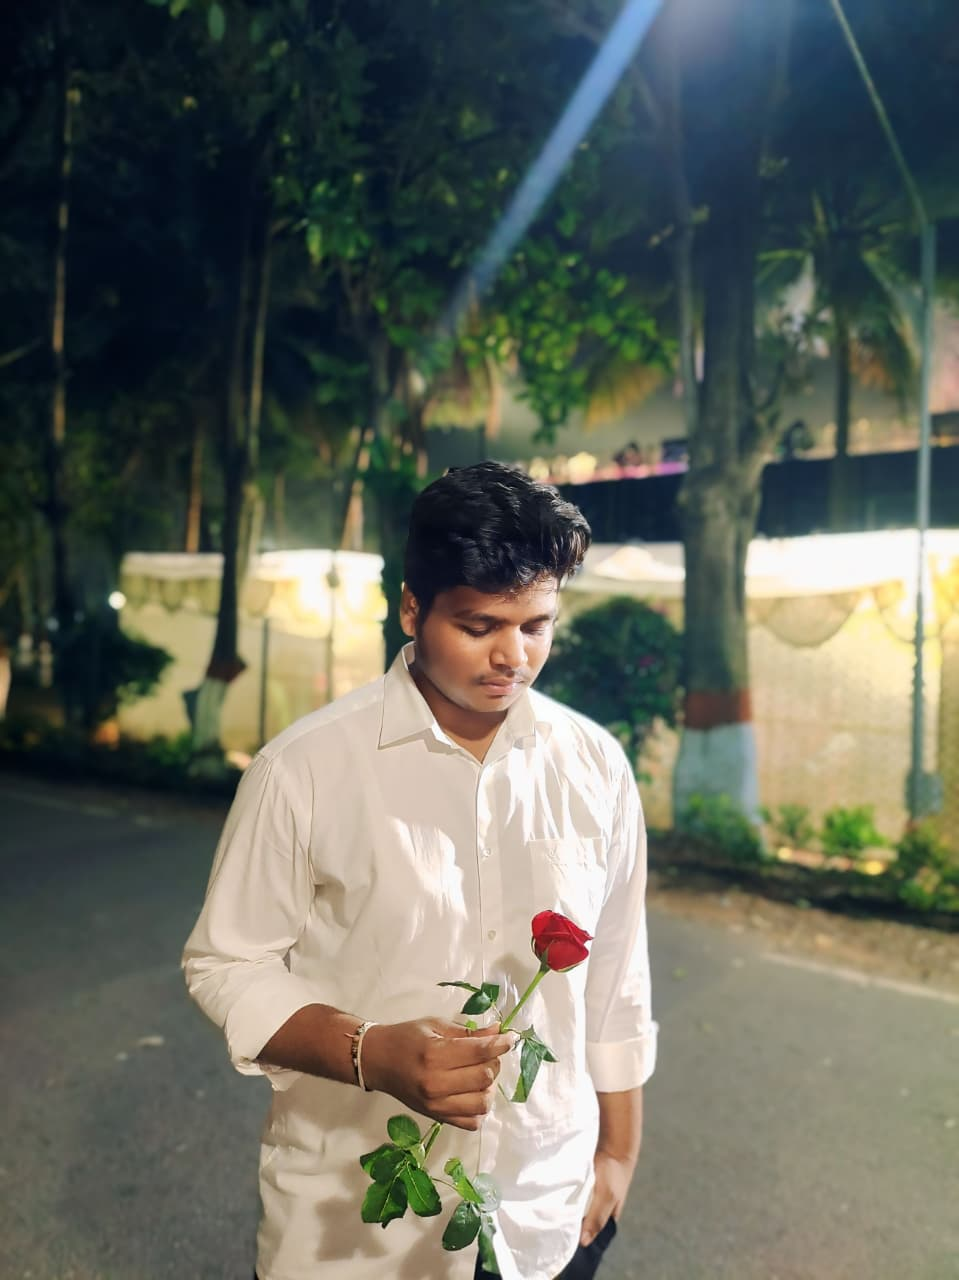
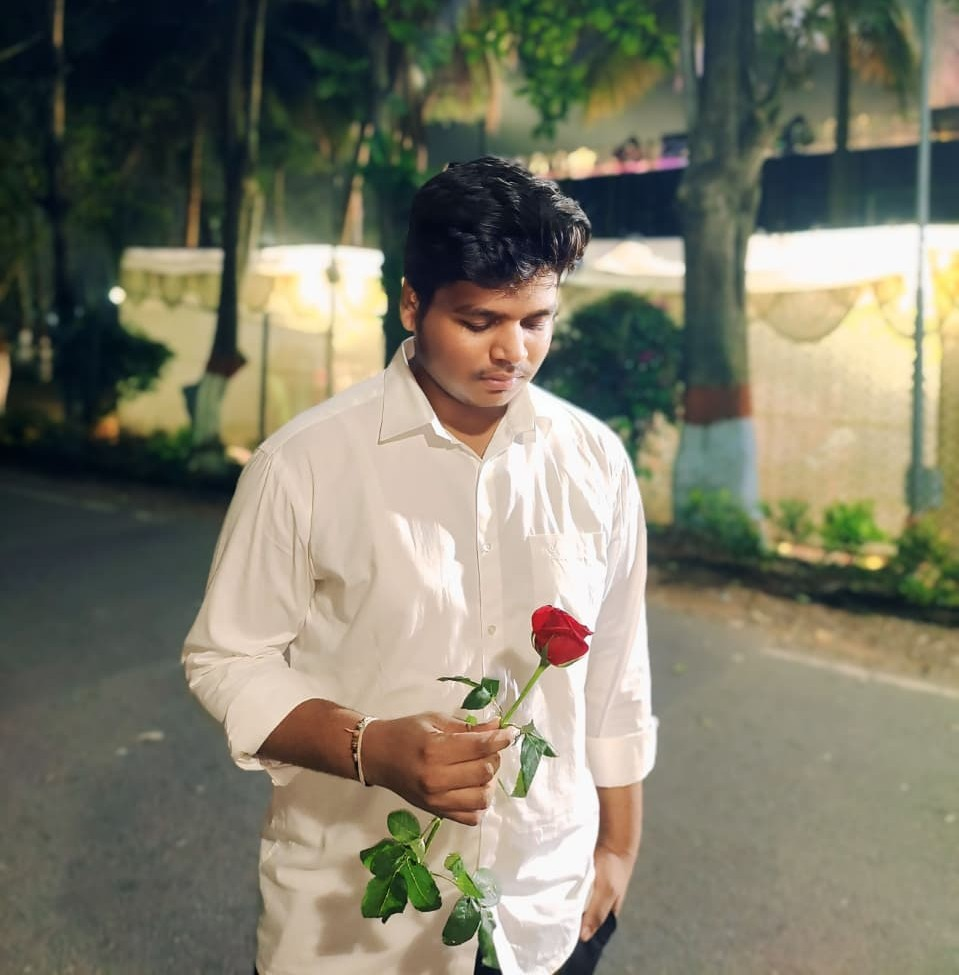
Update developer 2 image zoom and add developer 3 image

diff --git a/templates/developers.html b/templates/developers.html
@@ -24,9 +24,9 @@
 
     <div class="row justify-content-center">
         <!-- Developer 1 -->
-        <div class="col-md-5 mb-4">
+        <div class="col-md-4 mb-4">
             <div class="card developer-card h-100 shadow">
-                <div class="developer-image-container">
+                <div class="developer-image-container developer-1">
                     <img src="{{ url_for('static', filename='img/Developer1.jpg') }}" alt="Vamsi Krishna" class="developer-image">
                     <div class="social-links">
                         <a href="https://www.linkedin.com/in/pukkilla-vamsikrishna-7772741aa" target="_blank" class="social-link linkedin">
@@ -46,9 +46,9 @@
         </div>
 
         <!-- Developer 2 -->
-        <div class="col-md-5 mb-4">
+        <div class="col-md-4 mb-4">
             <div class="card developer-card h-100 shadow">
-                <div class="developer-image-container">
+                <div class="developer-image-container developer-2">
                     <img src="{{ url_for('static', filename='img/Developer2.jpg') }}" alt="Bhargavram" class="developer-image">
                     <div class="social-links">
                         <a href="https://www.linkedin.com/in/bhargavram-paila/" target="_blank" class="social-link linkedin">
@@ -61,8 +61,30 @@
                 </div>
                 <div class="card-body text-center">
                     <h3 class="card-title">Bhargavram Paila</h3>
-                    <h6 class="text-primary mb-3">Innovation Specialist </h6>
+                    <h6 class="text-primary mb-3">Innovation Specialist</h6>
                     <p class="card-text">As the Class Representative, I am proud to contribute to my esteemed department through this project.</p>
+                </div>
+            </div>
+        </div>
+
+        <!-- Developer 3 -->
+        <div class="col-md-4 mb-4">
+            <div class="card developer-card h-100 shadow">
+                <div class="developer-image-container developer-3">
+                    <img src="{{ url_for('static', filename='img/Developer3.jpg') }}" alt="Santosh Kumar" class="developer-image">
+                    <div class="social-links">
+                        <a href="https://www.linkedin.com/in/manukonda-santosh-kumar-453929289/" target="_blank" class="social-link linkedin">
+                            <i class="fab fa-linkedin-in"></i>
+                        </a>
+                        <a href="https://github.com/santosh5133j6" target="_blank" class="social-link github">
+                            <i class="fab fa-github"></i>
+                        </a>
+                    </div>
+                </div>
+                <div class="card-body text-center">
+                    <h3 class="card-title">Manukonda Santosh Kumar</h3>
+                    <h6 class="text-primary mb-3">Full Stack Developer</h6>
+                    <p class="card-text">Dedicated to building robust applications and delivering high-quality solutions with modern technologies.</p>
                 </div>
             </div>
         </div>
@@ -84,15 +106,36 @@
 
 .developer-image-container {
     position: relative;
-    height: 300px;
+    height: 350px;
     overflow: hidden;
+    background-color: #f8f9fa;
+    display: flex;
+    align-items: center;
+    justify-content: center;
 }
 
 .developer-image {
     width: 100%;
     height: 100%;
     object-fit: cover;
+    object-position: center center;
     transition: transform 0.5s ease;
+}
+
+.developer-1 .developer-image {
+    object-fit: cover;
+    object-position: center top;
+}
+
+.developer-2 .developer-image {
+    object-fit: cover;
+    object-position: center top;
+    transform: scale(1.2);
+}
+
+.developer-3 .developer-image {
+    object-fit: contain;
+    object-position: center top;
 }
 
 .developer-card:hover .developer-image {
